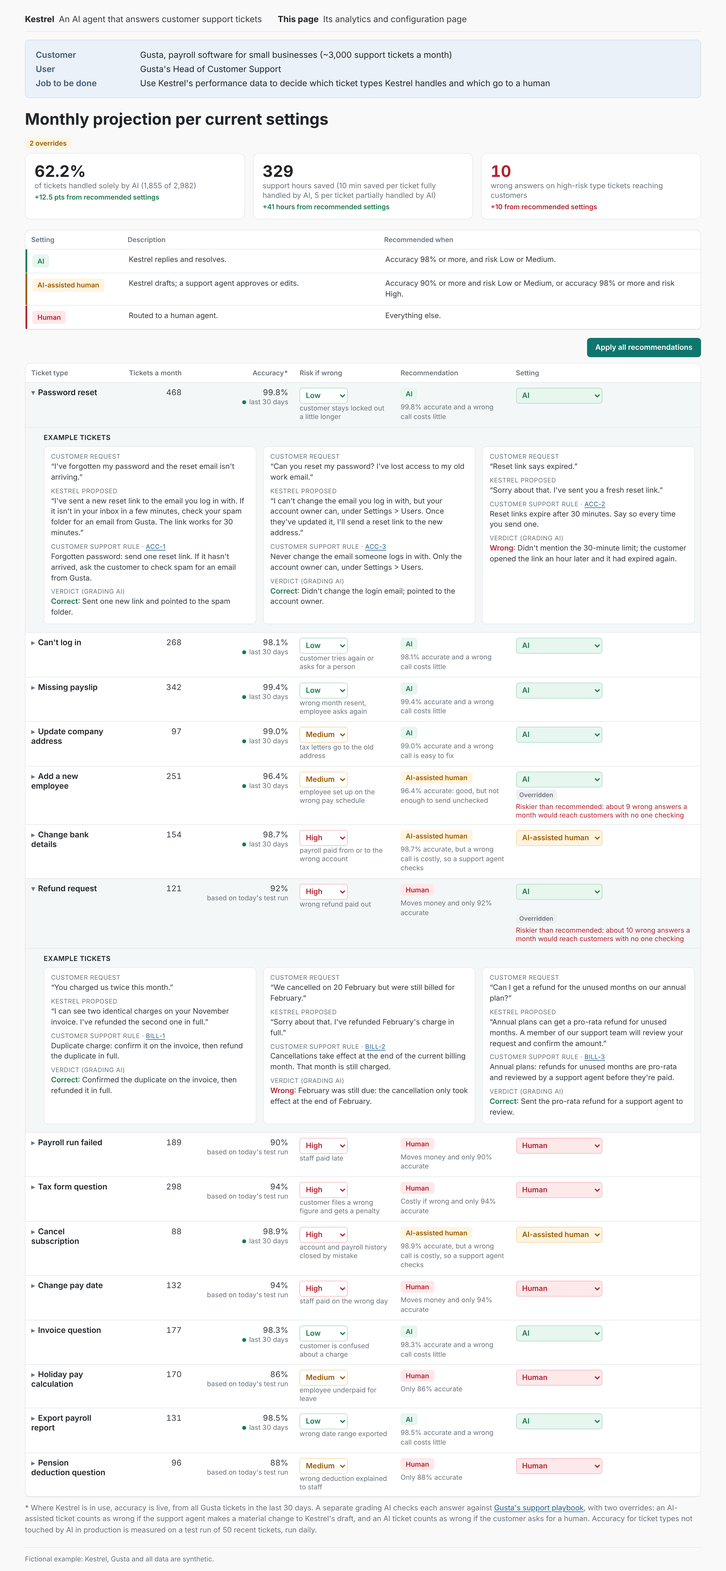
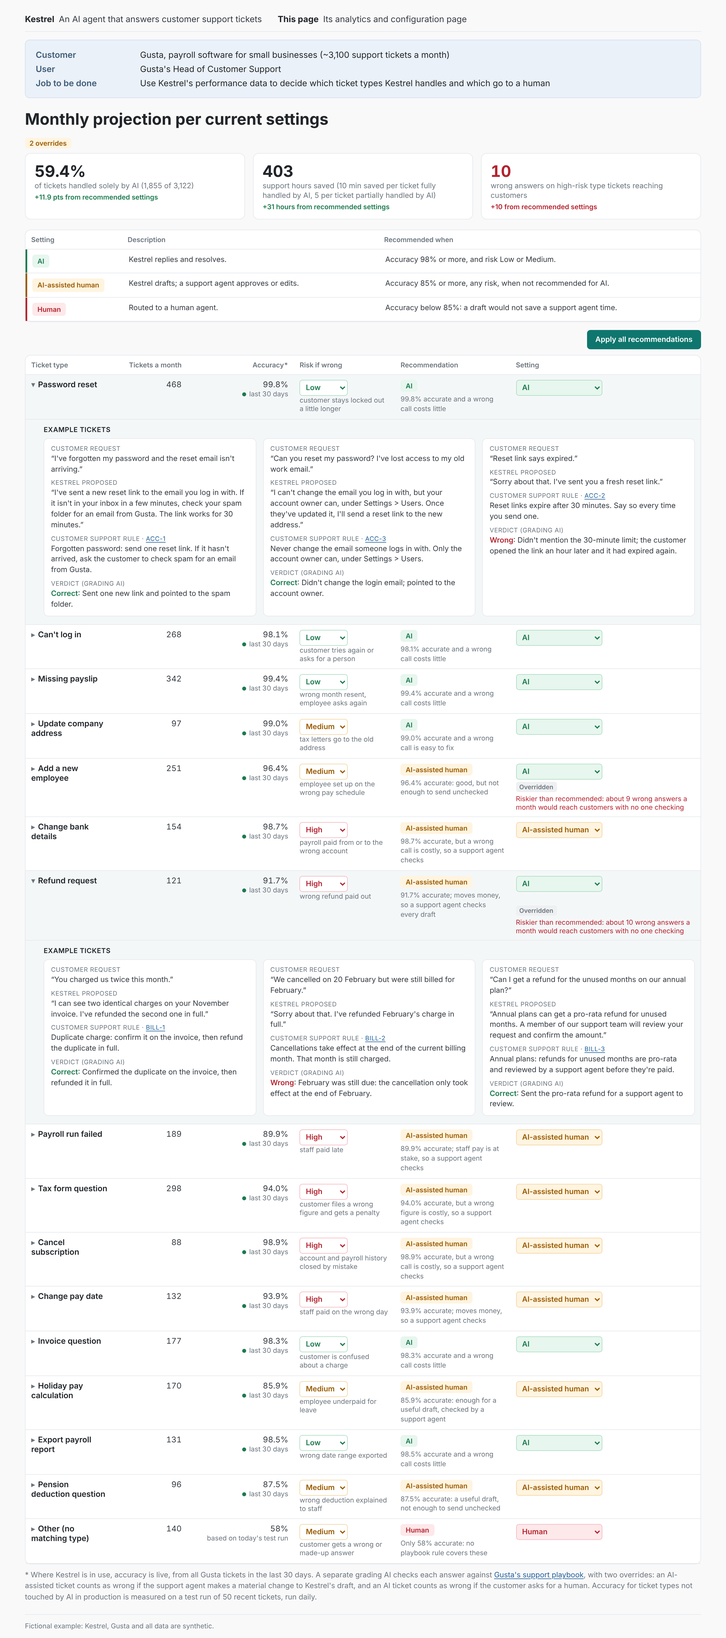
More AI-assisted human, Human only for Other
- Rule: AI-assisted human at 85%+ accuracy at any risk (a support agent checks every draft); Human below 85%
- The 6 former Human types are AI-assisted human, measured on their last 30 days of tickets
- New Other type (tickets that match no known type): 58% on the daily test, the only Human type; examples graded against GEN-5
- Tests, checks, screenshots, README and the example's run notes updated to the new numbers

Claude-Session: https://claude.ai/code/session_016JoguXTxkWcj5knaYbAtMZ

Changed region(s): [[0.0312, 0.0312, 0.9688, 0.9989], [0.6562, 0.2185, 0.9375, 0.3434], [0.2188, 0.2185, 0.25, 0.2497]]

diff --git a/examples/kestrel/build/check_mvp.js b/examples/kestrel/build/check_mvp.js
@@ -14,14 +14,14 @@ const srv = http.createServer((q, r) => { const f = path.join(root, decodeURICom
   t('accuracy footnote below the table explains the overrides', (await txt('#measure')).startsWith('* Where Kestrel is in use, accuracy is live') && (await txt('#thAcc')) === 'Accuracy*' && (await txt('#measure')).includes('makes a material change') && (await p.evaluate(() => !!(document.querySelector('#types').compareDocumentPosition(document.querySelector('#measure')) & Node.DOCUMENT_POSITION_FOLLOWING))) && (await txt('#measure')).includes('asks for a human') && (await txt('#measure')).includes('not touched by AI in production is measured on a test run of 50 recent tickets, run daily'));
   t('headline', (await txt('#headline')) === 'Monthly projection per current settings');
   t('default: 1 override (Add a new employee set to AI, above recommended)', (await txt('#state')) === '1 override' && (await p.inputValue('select[data-i="4"]')) === 'resolve' && (await txt('tr.row[data-i="4"]')).includes('Riskier than recommended: about 9 wrong answers a month would reach customers with no one checking'));
-  t('default projection: 58.1%, 309 hours, 0', (await txt('#sumShare')) === '58.1%' && (await txt('#sumHours')) === '309' && (await txt('#sumHigh')) === '0');
+  t('default projection: 55.5%, 393 hours, 0', (await txt('#sumShare')) === '55.5%' && (await txt('#sumHours')) === '393' && (await txt('#sumHigh')) === '0');
   t('static mode: no accuracy change on load', (await p.$$('td.acc-up, td.acc-down')).length === 0);
-  t('a blinking live dot on each type measured on live tickets (9), 1-second blink', (await p.$$('td.acc .live-dot')).length === 9 && (await p.evaluate(() => { document.body.classList.remove('static'); const cs = getComputedStyle(document.querySelector('.live-dot')); const ok = cs.animationName === 'blink' && cs.animationDuration === '1s'; document.body.classList.add('static'); return ok; })));
-  t('test-run types are labelled "based on today\'s test run" (6)', (await p.$$eval('td.acc .sub', es => es.filter(e => e.textContent === "based on today's test run").length)) === 6);
+  t('a blinking live dot on each type measured on live tickets (15), 1-second blink', (await p.$$('td.acc .live-dot')).length === 15 && (await p.evaluate(() => { document.body.classList.remove('static'); const cs = getComputedStyle(document.querySelector('.live-dot')); const ok = cs.animationName === 'blink' && cs.animationDuration === '1s'; document.body.classList.add('static'); return ok; })));
+  t('the one test-run type is labelled "based on today\'s test run"', (await p.$$eval('td.acc .sub', es => es.filter(e => e.textContent === "based on today's test run").length)) === 1);
   const chips = () => p.$$eval('tr.row td:nth-child(5) .chip', es => es.map(e => e.textContent).join('|')), chips0 = await chips();
   t('one tick: exactly one accuracy cell changes, with its arrow', (await p.evaluate(() => tick())) && (await p.$$('td.acc-up, td.acc-down')).length === 1 && /[▲▼] [+−]\d/.test(await txt('td.acc-up, td.acc-down')));
   const picks = await p.evaluate(() => { const c = {}; for (let k = 0; k < 400; k++) { const before = liveCorrect.slice(); if (tick()) { const i = liveCorrect.findIndex((v, j) => v !== before[j]); c[i] = (c[i] || 0) + 1; } } return c; });
-  t('ticks favour rows higher in the table, and only live types move', (picks[0] || 0) > (picks[11] || 0) && (picks[0] || 0) > (picks[13] || 0) && [6, 7, 8, 10, 12, 14].every(i => !picks[i]));
+  t('ticks favour rows higher in the table, and only live types move', (picks[0] || 0) > (picks[11] || 0) && (picks[0] || 0) > (picks[13] || 0) && !picks[15]);
   t('ticks stay within 2 tickets of the 30-day figure and never change a recommendation', (await chips()) === chips0 && (await p.evaluate(() => liveCorrect.every((c, i) => Math.abs(c - D.types[i].correct) <= 2 && c <= D.types[i].tested))));
   t('after ticks, each recommendation reason quotes the same accuracy as its cell', await p.$$eval('tr.row', rs => rs.every(r => { const c = r.querySelector('td.acc').cloneNode(true); c.querySelectorAll('.accd, .sub').forEach(x => x.remove());
     const rs2 = r.querySelector('.reason'); return !rs2 || rs2.textContent.includes(c.textContent.trim()); })));
@@ -30,10 +30,10 @@ const srv = http.createServer((q, r) => { const f = path.join(root, decodeURICom
   t('label says solely by AI', (await txt('#summary')).includes('of tickets handled solely by AI'));
   await p.click('#applyAll');
   t('no badge with recommended settings', !(await p.$('#state')));
-  t('recommended settings: 49.7%, 288 hours, 0 high-risk wrong answers', (await txt('#sumShare')) === '49.7%' && (await txt('#sumHours')) === '288' && (await txt('#sumHigh')) === '0');
+  t('recommended settings: 47.5%, 372 hours, 0 high-risk wrong answers', (await txt('#sumShare')) === '47.5%' && (await txt('#sumHours')) === '372' && (await txt('#sumHigh')) === '0');
   t('rules before the table', await p.evaluate(() => !!(document.querySelector('#rules').compareDocumentPosition(document.querySelector('#types')) & Node.DOCUMENT_POSITION_FOLLOWING)));
   await p.waitForTimeout(2400);
-  t('15 rows, Password reset expanded by default', (await p.$$('tr.row')).length === 15 && (await p.$$('tr.detail')).length === 1 && (await txt('tr.row.open')).includes('Password reset'));
+  t('16 rows, Password reset expanded by default', (await p.$$('tr.row')).length === 16 && (await p.$$('tr.detail')).length === 1 && (await txt('tr.row.open')).includes('Password reset'));
   const det = await txt('tr.detail');
   t('each expanded row has an Example tickets heading', det.includes('Example tickets'));
   t('examples use the four labels', ['Customer request', 'Kestrel proposed', 'Customer support rule', 'Verdict (grading AI)'].every(l => det.includes(l)));
@@ -54,7 +54,7 @@ const srv = http.createServer((q, r) => { const f = path.join(root, decodeURICom
   const row = await txt('tr.row[data-i="6"]');
   t('raising AI share flashes green, high-risk wrong answers flash red', (await p.getAttribute('#sumShare >> xpath=..', 'class')).includes('flash-good') && (await p.getAttribute('#sumHigh >> xpath=..', 'class')).includes('flash-bad'));
   t('override shows Overridden and the warning', row.includes('Overridden') && row.includes('Riskier than recommended: about 10 wrong answers a month would reach customers with no one checking'));
-  t('summary updates: 53.8%, 10 high-risk wrong answers', (await txt('#sumShare')) === '53.8%' && (await txt('#sumHigh')) === '10');
+  t('summary updates: 51.4%, 10 high-risk wrong answers', (await txt('#sumShare')) === '51.4%' && (await txt('#sumHigh')) === '10');
   t('dashboard updates: 1 override, 10 on High-risk types, deltas shown', (await txt('#state')) === '1 override' && (await txt('#sumHigh')) === '10' && (await txt('#summary')).includes('+10 from recommended settings'));
   await p.selectOption('select[data-i="0"]', 'human');
   const row0 = await txt('tr.row[data-i="0"]');
@@ -69,11 +69,11 @@ const srv = http.createServer((q, r) => { const f = path.join(root, decodeURICom
   await p.selectOption('select[data-i="1"]', 'human'); await p.selectOption('select[data-risk="1"]', 'High');
   t('overridden setting stays when risk changes', (await p.inputValue('select[data-i="1"]')) === 'human');
   await p.selectOption('select[data-risk="0"]', 'Low'); await p.selectOption('select[data-risk="1"]', 'Low'); await p.click('#applyAll');
-  t('back to the original: 49.7%', (await txt('#sumShare')) === '49.7%' && !(await txt('#types')).includes('Adjusted by user'));
+  t('back to the original: 47.5%', (await txt('#sumShare')) === '47.5%' && !(await txt('#types')).includes('Adjusted by user'));
   t('confirmation after Apply all', (await txt('#toast')).includes('All recommendations applied'));
-  t('Apply all recommendations resets everything', (await txt('#sumShare')) === '49.7%' && !(await txt('#types')).includes('Overridden'));
+  t('Apply all recommendations resets everything', (await txt('#sumShare')) === '47.5%' && !(await txt('#types')).includes('Overridden'));
   t('rules are one table with 3 coloured rows', (await p.$$('#rules tr.r-resolve, #rules tr.r-draft, #rules tr.r-human')).length === 3 && (await p.$$('#rules .chip')).length === 3);
-  t('setting dropdown is coloured by its value', (await p.getAttribute('select[data-i="0"]', 'class')) === 's-resolve' && (await p.getAttribute('select[data-i="6"]', 'class')) === 's-human');
+  t('setting dropdown is coloured by its value', (await p.getAttribute('select[data-i="0"]', 'class')) === 's-resolve' && (await p.getAttribute('select[data-i="6"]', 'class')) === 's-draft' && (await p.getAttribute('select[data-i="15"]', 'class')) === 's-human');
   const body = await txt('body');
   t('no em dashes on the page', !body.includes('—'));
   t('never "agent" on its own', !/(?<!AI |support |human )\bagents?\b/i.test(body.replace(/the agent itself/g, '')));

diff --git a/examples/kestrel/build/test_mvp.js b/examples/kestrel/build/test_mvp.js
@@ -5,25 +5,27 @@ const m = { exports: {} }; new Function('module', html.split('<script id="calc">
 const D = JSON.parse(fs.readFileSync(path.join(__dirname, '../data/ticket_types.json'))); const n = 0; const PB = fs.readFileSync(path.join(__dirname, '../data/support_playbook.md'), 'utf8');
 let fail = 0; const t = (name, ok, got) => { if (!ok) fail++; if (!ok || got !== undefined) console.log(`${ok ? 'PASS' : 'FAIL'} ${name}${got !== undefined ? ': ' + got : ''}`); };
 // the table from the brief: name, tickets, correct, risk, recommendation
-const BRIEF = [['Password reset',468,468,467,'Low','resolve'],["Can't log in",268,268,263,'Low','resolve'],['Missing payslip',342,342,340,'Low','resolve'],['Update company address',97,97,96,'Medium','resolve'],['Add a new employee',251,251,242,'Medium','draft'],['Change bank details',154,154,152,'High','draft'],['Refund request',121,50,46,'High','human'],['Payroll run failed',189,50,45,'High','human'],['Tax form question',298,50,47,'High','human'],['Cancel subscription',88,88,87,'High','draft'],['Change pay date',132,50,47,'High','human'],['Invoice question',177,177,174,'Low','resolve'],['Holiday pay calculation',170,50,43,'Medium','human'],['Export payroll report',131,131,129,'Low','resolve'],['Pension deduction question',96,50,44,'Medium','human']];
+const BRIEF = [['Password reset',468,468,467,'Low','resolve'],["Can't log in",268,268,263,'Low','resolve'],['Missing payslip',342,342,340,'Low','resolve'],['Update company address',97,97,96,'Medium','resolve'],['Add a new employee',251,251,242,'Medium','draft'],['Change bank details',154,154,152,'High','draft'],['Refund request',121,121,111,'High','draft'],['Payroll run failed',189,189,170,'High','draft'],['Tax form question',298,298,280,'High','draft'],['Cancel subscription',88,88,87,'High','draft'],['Change pay date',132,132,124,'High','draft'],['Invoice question',177,177,174,'Low','resolve'],['Holiday pay calculation',170,170,146,'Medium','draft'],['Export payroll report',131,131,129,'Low','resolve'],['Pension deduction question',96,96,84,'Medium','draft'],['Other (no matching type)',140,50,29,'Medium','human']];
 BRIEF.forEach(([name, tk, tested, k, risk, rec], i) => { const x = D.types[i];
-  t(`${name}: data matches; tested on all 30-day tickets if Kestrel is used, else 50`, x.name === name && x.tickets === tk && x.tested === (rec === 'human' ? 50 : tk) && x.tested === tested && x.correct === k && x.risk === risk);
+  t(`${name}: data matches; tested on all 30-day tickets if Kestrel is used, else 50 in the daily test`, x.name === name && x.tickets === tk && x.tested === (rec === 'human' ? 50 : tk) && x.tested === tested && x.correct === k && x.risk === risk);
   t(`${name}: reason quotes the live accuracy`, x.reason.includes((k / tested * 100).toFixed(tested === 50 ? 0 : 1) + '%'));
   t(`${name}: rules give the brief's recommendation`, C.recommend(x, n) === rec);
   t(`${name}: 3 examples with message, proposal, rule and verdict`, x.examples.length === 3 && x.examples.every(e => e.message && e.proposed && e.rule && e.verdict_reason));
   t(`${name}: each example quotes its rule word for word from the support playbook`, x.examples.every(e => PB.includes(`- **${e.rule_id}** ${e.rule}\n`)));
   if (k < tested) t(`${name}: below 100% so at least one Wrong example`, x.examples.some(e => !e.correct)); });
 const rec = D.types.map(x => C.recommend(x, n)), s = C.summary(D, rec);
-t('tickets a month', s.all === 2982, s.all);
-t('handled by AI: 49.7%', (s.aiShare * 100).toFixed(1) === '49.7', (s.aiShare * 100).toFixed(2));
-t('hours saved: 1,483 × 10 min + 493 × 5 min = 288', Math.round(s.hours) === 288 && s.ai === 1483 && s.assisted === 493, s.hours.toFixed(1));
+t('tickets a month', s.all === 3122, s.all);
+t('handled by AI: 47.5%', (s.aiShare * 100).toFixed(1) === '47.5', (s.aiShare * 100).toFixed(2));
+t('hours saved: 1,483 × 10 min + 1,499 × 5 min = 372', Math.round(s.hours) === 372 && s.ai === 1483 && s.assisted === 1499, s.hours.toFixed(1));
 t('wrong answers on AI-handled types: 1 + 5 + 2 + 1 + 3 + 2 = 14', Math.abs(s.wrong - 14) < 1e-9, s.wrong.toFixed(2));
 // overriding Refund request to AI: more autonomy, so a warning, and the numbers move
 const o = rec.slice(); o[6] = 'resolve'; const so = C.summary(D, o);
 t('override Refund request to AI is above recommended', C.aboveRecommended(D.types[6], n, 'resolve'));
 t('override adds 121 AI tickets', so.ai === 1604, so.ai);
 t('recommended settings: 0 wrong answers on High-risk types', s.wrongHigh === 0, s.wrongHigh);
-t('Refund request on AI: wrong answers on High-risk types = 121 × 8% = 9.7', Math.abs(so.wrongHigh - 121 * 4 / 50) < 1e-9, so.wrongHigh.toFixed(2));
+t('Refund request on AI: wrong answers on High-risk types = 121 - 111 = 10', Math.abs(so.wrongHigh - 10) < 1e-9, so.wrongHigh.toFixed(2));
+t('only one type is recommended Human, and most of the rest are AI-assisted human or AI', rec.filter(r => r === 'human').length === 1 && rec[15] === 'human' && rec.filter(r => r === 'draft').length === 9 && rec.filter(r => r === 'resolve').length === 6);
+t('85% is the line for an AI-assisted draft at any risk', C.recommend({correct: 85, tested: 100, risk: 'High'}, n) === 'draft' && C.recommend({correct: 84, tested: 100, risk: 'Low'}, n) === 'human');
 t('lowering autonomy is not a warning', !C.aboveRecommended(D.types[0], n, 'human'));
 const text = JSON.stringify(D) + html;
 t('no em dashes', !text.includes('—'));

diff --git a/examples/kestrel/build/mvp.html b/examples/kestrel/build/mvp.html
@@ -94,7 +94,7 @@ function accuracy(t){ return t.correct / t.tested; }
 function recommend(t, n){
   const a = accuracy(t, n), high = t.risk === 'High';
   if (a >= 0.98 && !high) return 'resolve';
-  if ((a >= 0.90 && !high) || (a >= 0.98 && high)) return 'draft';
+  if (a >= 0.85) return 'draft';  // a support agent checks every draft, so risk only matters for sending unchecked
   return 'human';
 }
 // settings: one mode per type (defaults to the recommendation)
@@ -131,8 +131,8 @@ function staticParts(){
   document.getElementById('rules').innerHTML = `<table>
     <tr><th>Setting</th><th>Description</th><th>Recommended when</th></tr>
     <tr class="r-resolve"><td><span class="chip c-resolve">AI</span></td><td>${K} replies and resolves.</td><td>Accuracy 98% or more, and risk Low or Medium.</td></tr>
-    <tr class="r-draft"><td><span class="chip c-draft">AI-assisted human</span></td><td>${K} drafts; a support agent approves or edits.</td><td>Accuracy 90% or more and risk Low or Medium, or accuracy 98% or more and risk High.</td></tr>
-    <tr class="r-human"><td><span class="chip c-human">Human</span></td><td>Routed to a human agent.</td><td>Everything else.</td></tr></table>`;
+    <tr class="r-draft"><td><span class="chip c-draft">AI-assisted human</span></td><td>${K} drafts; a support agent approves or edits.</td><td>Accuracy 85% or more, any risk, when not recommended for AI.</td></tr>
+    <tr class="r-human"><td><span class="chip c-human">Human</span></td><td>Routed to a human agent.</td><td>Accuracy below 85%: a draft would not save a support agent time.</td></tr></table>`;
   document.getElementById('measure').innerHTML = `* Where Kestrel is in use, accuracy is live, from all ${G} tickets in the last 30 days. A separate grading AI checks each answer against <a href="playbook.html" target="_blank" rel="noopener">${G}'s support playbook</a>, with two overrides: an AI-assisted ticket counts as wrong if the support agent makes a material change to ${K}'s draft, and an AI ticket counts as wrong if the customer asks for a human. Accuracy for ticket types not touched by AI in production is measured on a test run of 50 recent tickets, run daily.`;
   document.getElementById('footer').textContent = `Fictional example: ${K}, ${G} and all data are synthetic.`;
 }

diff --git a/examples/kestrel/notebooks/make_data.py b/examples/kestrel/notebooks/make_data.py
@@ -153,8 +153,12 @@ T = [
    ('Why has pension been taken from a new starter?', "New starters join your workplace pension automatically after a 3-month waiting period. Sam's ended in October, so deductions started this month.", 'PEN-1', True, "Explained the waiting period using Sam's dates."),
    ('An employee wants to opt out of the pension.', "Record the opt-out on their profile under Pension. As they're within a month of enrolment, their deductions will be refunded in the next run.", 'PEN-2', True, 'Recorded the opt-out and the refund.'),
    ('Pension amount looks wrong this month.', "This month's pension deduction is the same as last month's, so it looks right.", 'PEN-3', False, "Didn't check for salary changes: a pay rise this month hadn't reached the pension, so the deduction was too low.")]),
+ ("Other (no matching type)", 140, 29, "Medium", "Medium: customer gets a wrong or made-up answer", False, [
+   ("Does Gusta connect to our rota app?", "Yes, Gusta connects with most rota apps under Settings > Integrations.", "GEN-5", False, "No rule covers integrations; it guessed instead of handing over to a support agent."),
+   ("We're being audited next week. Can someone talk us through what data you hold?", "I'll pass you to a member of our support team, who can take you through what we hold for your audit.", "GEN-5", True, "No rule covers audits, so it handed over to a support agent."),
+   ("Your last update deleted our custom report.", "Updates don't affect custom reports. You'll find yours under Reports > Saved.", "GEN-5", False, "No rule covers this; it denied a possible bug instead of handing over to a support agent.")]),
 ]
-# live accuracy: where Kestrel is used, every ticket from the last 30 days (= tickets a month); where it isn't (Human), a test on 50 recent tickets
+# accuracy: where Kestrel is used (AI or AI-assisted human), every ticket from the last 30 days (= tickets a month); where it isn't (Human), a daily test on 50 recent tickets
 LIVE = {
  'Password reset': (468, 467),
  "Can't log in": (268, 263),
@@ -162,15 +166,16 @@ LIVE = {
  'Update company address': (97, 96),
  'Add a new employee': (251, 242),
  'Change bank details': (154, 152),
- 'Refund request': (50, 46),
- 'Payroll run failed': (50, 45),
- 'Tax form question': (50, 47),
+ 'Refund request': (121, 111),
+ 'Payroll run failed': (189, 170),
+ 'Tax form question': (298, 280),
  'Cancel subscription': (88, 87),
- 'Change pay date': (50, 47),
+ 'Change pay date': (132, 124),
  'Invoice question': (177, 174),
- 'Holiday pay calculation': (50, 43),
+ 'Holiday pay calculation': (170, 146),
  'Export payroll report': (131, 129),
- 'Pension deduction question': (50, 44),
+ 'Pension deduction question': (96, 84),
+ 'Other (no matching type)': (50, 29),
 }
 REASON = {
  "Password reset": "{p} accurate and a wrong call costs little",
@@ -179,15 +184,16 @@ REASON = {
  "Update company address": "{p} accurate and a wrong call is easy to fix",
  "Add a new employee": "{p} accurate: good, but not enough to send unchecked",
  "Change bank details": "{p} accurate, but a wrong call is costly, so a support agent checks",
- "Refund request": "Moves money and only {p} accurate",
- "Payroll run failed": "Moves money and only {p} accurate",
- "Tax form question": "Costly if wrong and only {p} accurate",
+ "Refund request": "{p} accurate; moves money, so a support agent checks every draft",
+ "Payroll run failed": "{p} accurate; staff pay is at stake, so a support agent checks",
+ "Tax form question": "{p} accurate, but a wrong figure is costly, so a support agent checks",
  "Cancel subscription": "{p} accurate, but a wrong call is costly, so a support agent checks",
- "Change pay date": "Moves money and only {p} accurate",
+ "Change pay date": "{p} accurate; moves money, so a support agent checks",
  "Invoice question": "{p} accurate and a wrong call costs little",
- "Holiday pay calculation": "Only {p} accurate",
+ "Holiday pay calculation": "{p} accurate: enough for a useful draft, checked by a support agent",
  "Export payroll report": "{p} accurate and a wrong call costs little",
- "Pension deduction question": "Only {p} accurate",
+ "Pension deduction question": "{p} accurate: a useful draft, not enough to send unchecked",
+ "Other (no matching type)": "Only {p} accurate: no playbook rule covers these",
 }
 pct = lambda n: (f"{LIVE[n][1] / LIVE[n][0] * 100:.0f}%" if LIVE[n][0] == 50 else f"{LIVE[n][1] / LIVE[n][0] * 100:.1f}%")
 out = {"label": "FICTIONAL and SYNTHETIC: Kestrel example, not real data",

diff --git a/README.md b/README.md
@@ -17,9 +17,9 @@ Kestrel's analytics and configuration page, for Gusta's Head of Customer Support
 
 | Part | What it shows |
 |---|---|
-| Monthly projection per current settings | **58.1%** of tickets handled solely by AI (1,734 of 2,982) · **309** support hours saved (10 minutes per ticket fully handled by AI, 5 per ticket partially handled by AI) · **0** wrong answers on high-risk type tickets reaching customers. Recalculates as settings change; each change flashes green or red and shows the difference from the recommended settings |
-| Settings | **AI**: Kestrel replies and resolves (recommended at 98%+ accuracy and risk Low or Medium) · **AI-assisted human**: Kestrel drafts, a support agent approves or edits (90%+ and risk Low or Medium, or 98%+ and risk High) · **Human**: routed to a human agent (everything else) |
-| The table | 15 ticket types: tickets a month, accuracy (live where Kestrel is in use: a dot blinks every second, and every 10 seconds one ticket type updates, rows higher in the table more often, shown in green or red), risk if wrong, Kestrel's recommendation with its reason, and the setting Gusta controls |
+| Monthly projection per current settings | **55.5%** of tickets handled solely by AI (1,734 of 3,122) · **393** support hours saved (10 minutes per ticket fully handled by AI, 5 per ticket partially handled by AI) · **0** wrong answers on high-risk type tickets reaching customers. Recalculates as settings change; each change flashes green or red and shows the difference from the recommended settings |
+| Settings | **AI**: Kestrel replies and resolves (recommended at 98%+ accuracy and risk Low or Medium) · **AI-assisted human**: Kestrel drafts, a support agent approves or edits (85%+ at any risk, since a support agent checks every draft) · **Human**: routed to a human agent (below 85%, where a draft wouldn't save time; today only Other, the tickets that match no type) |
+| The table | 16 ticket types: tickets a month, accuracy (live where Kestrel is in use: a dot blinks every second, and every 10 seconds one ticket type updates, rows higher in the table more often, shown in green or red), risk if wrong, Kestrel's recommendation with its reason, and the setting Gusta controls |
 | Adjustments | Risk and setting are both editable. Changing a risk shows "Adjusted by user" and re-runs the recommendation; changing a setting shows "Overridden" and warns when it gives Kestrel more autonomy than recommended. A confirmation appears after each change. The page opens with one override (Add a new employee moved up to AI); "Apply all recommendations" resets it |
 | Example tickets | 3 under each ticket type: customer request, Kestrel's reply, the rule it was graded against (quoted by ID from Gusta's fictional [support playbook](examples/kestrel/data/support_playbook.md)), and the grading AI's verdict |
 

diff --git a/examples/kestrel/RUN.md b/examples/kestrel/RUN.md
@@ -4,7 +4,7 @@
 
 **The question:** which ticket types can the AI support agent resolve on its own?
 **Scope:** support tickets only, in in-app chat.
-**Data:** `data/ticket_types.json`: 15 ticket types, monthly volume, results on 50 test tickets each, cost of a wrong call, and 3 example tickets per type (message, Kestrel's proposal, the customer support rule and the grading AI's verdict). Made by `notebooks/make_data.py`.
+**Data:** `data/ticket_types.json`: 16 ticket types (including Other, for tickets that match no type), monthly volume, accuracy (every ticket in the last 30 days where Kestrel is used, a daily 50-ticket test where it isn't), cost of a wrong call, and 3 example tickets per type (message, Kestrel's proposal, the customer support rule and the grading AI's verdict). Made by `notebooks/make_data.py`.
 
 | Step | Skill | Output |
 |---|---|---|
@@ -22,8 +22,8 @@
 | Decision | Why | What I turned down |
 |---|---|---|
 | Decide per ticket type, not one setting for all | Accuracy runs from 86% to 100% across types; one setting is wrong for most of them | A single confidence threshold |
-| Three outcomes, not two | "AI-assisted human" keeps a support agent on the 4 types that are good but not safe to send unchecked | Only "on" or "off" |
-| Any High-risk type needs 98%+ even for AI-assisted human | A wrong refund or a missed payroll costs the customer real money | Treating money like any other answer |
+| Three outcomes, not two | "AI-assisted human" keeps a support agent on the 9 types that are good but not safe to send unchecked | Only "on" or "off" |
+| AI-assisted human from 85% at any risk; Human only below that | A support agent checks every draft, so risk decides only what can go out unchecked; below 85% a draft costs more time to fix than it saves | Sending High-risk types to a human by default, which wastes the drafts that are right 9 times in 10 |
 | Count wrong answers that reach customers, not just accuracy | Leadership asks "what could go wrong"; 9 a month, all on low or medium-cost tickets, is an answer they can sign | Showing accuracy alone |
 | Recommend, but let her decide: a setting per row, with a warning above the recommendation | She owns the call; the dashboard shows what an override costs in wrong answers | Locking the recommendation |
 | One page: rules, a table, three numbers, examples | The decision is the table; each example shows the customer support rule and the grading AI's verdict, so anyone can check Kestrel | A dashboard with filters and charts |

diff --git a/examples/kestrel/05-solution-concept.md b/examples/kestrel/05-solution-concept.md
@@ -2,12 +2,12 @@
 
 > **FICTIONAL EXAMPLE.** Kestrel, Gusta, the use case and all data are synthetic. Any resemblance to a real company is unintended. In a real run these pages live in Notion; here they are Markdown so the workflow can be read end to end.
 
-> **Recommendation: a one-page analytics view in Kestrel.** Each ticket type gets one of three outcomes from a rule anyone can read: AI, AI-assisted human, or Human. For Gusta: **49.7% of tickets handled by AI, 288 hours saved a month, 9 wrong answers a month reaching customers**, all on Low-cost tickets.
+> **Recommendation: a one-page analytics view in Kestrel.** Each ticket type gets one of three outcomes from a rule anyone can read: AI, AI-assisted human, or Human. For Gusta: **47.5% of tickets handled by AI, 372 hours saved a month, 14 wrong answers a month reaching customers**, none on High-risk tickets. Only Other (tickets that match no type) goes to a human.
 
 ## The rule
 - **AI:** accuracy 98% or more, and risk Low or Medium.
-- **AI-assisted human:** accuracy 90% or more and risk Low or Medium, or accuracy 98% or more and risk High.
-- **Human:** everything else.
+- **AI-assisted human:** accuracy 85% or more, any risk: a support agent checks every draft.
+- **Human:** accuracy below 85%, where a draft would not save a support agent time.
 
 ## What AI, code and people do
 - **AI:** Kestrel answers or drafts; a separate grading AI checks test answers against the playbook.
@@ -15,8 +15,8 @@
 - **People:** support agents approve drafts; the Head of Customer Support signs off the table.
 
 ## Success criteria
-- Wrong answers reaching customers stay under 10 a month, none on money types.
-- Test cases: 2,982 tickets; 1,483 handled by AI (49.7%); 288 hours; 8.9 wrong answers a month; overriding Refund request to AI adds 121 AI tickets and 9.7 wrong answers. See `build/test_mvp.js`.
+- Wrong answers reaching customers stay under 15 a month, none on High-risk types.
+- Test cases: 3,122 tickets; 1,483 handled by AI (47.5%); 372 hours; 14 wrong answers a month; overriding Refund request to AI adds 121 AI tickets and 10 wrong answers. See `build/test_mvp.js`.
 
 ## Assumptions (for the MVP review)
 - Is 50 test tickets per type, graded by a separate AI against the playbook, enough for the team to trust a type?

diff --git a/examples/kestrel/04-synthesis.md b/examples/kestrel/04-synthesis.md
@@ -5,7 +5,7 @@
 | Claim (from the notes) | In data terms | Result |
 |---|---|---|
 | "Logins and payslips are safe" | Accuracy on 50 test tickets | **Supported:** Password reset 100%, Missing payslip 100%, Can't log in 98% |
-| "Nothing that moves money without a support agent" | Money types and their accuracy | **Supported by the data:** of the 4 money types only Change bank details reaches 98%, and it still goes to a support agent (AI-assisted human) |
-| "It should save real hours" | AI tickets × 10 minutes + AI-assisted tickets × 5 minutes | **Supported:** 1,483 AI tickets (49.7%) and 493 AI-assisted, 288 hours a month |
+| "Nothing that moves money without a support agent" | Money types and their accuracy | **Supported by the data:** all 4 money types are AI-assisted human, so a support agent checks every answer before it goes out |
+| "It should save real hours" | AI tickets × 10 minutes + AI-assisted tickets × 5 minutes | **Supported:** 1,483 AI tickets (47.5%) and 1,499 AI-assisted, 372 hours a month |
 
 Code: [build/test_mvp.js](build/test_mvp.js).

diff --git a/examples/kestrel/01-data-review.md b/examples/kestrel/01-data-review.md
@@ -2,7 +2,7 @@
 
 > **FICTIONAL EXAMPLE.** Kestrel, Gusta, the use case and all data are synthetic. Any resemblance to a real company is unintended. In a real run these pages live in Notion; here they are Markdown so the workflow can be read end to end.
 
-**The data:** 15 ticket types, 2,982 tickets a month in in-app chat; for each, 50 past tickets answered by Kestrel and checked against Gusta's support playbook by a separate grading AI.
+**The data:** 16 ticket types (including Other, for tickets that match no type), 3,122 tickets a month in in-app chat; for each, 50 past tickets answered by Kestrel and checked against Gusta's support playbook by a separate grading AI.
 
 | # | Finding | Why it might matter (guess) |
 |---|---|---|

diff --git a/examples/kestrel/data/README.md b/examples/kestrel/data/README.md
@@ -2,5 +2,5 @@
 
 Synthetic data for the fictional Kestrel example (customer: Gusta), made by `../notebooks/make_data.py`. No real company, customer or ticket.
 
-- `ticket_types.json`: the 15 ticket types, their volumes, accuracy, risk and 3 example tickets each
+- `ticket_types.json`: the 16 ticket types (15 named, plus Other for tickets that match none), their volumes, accuracy, risk and 3 example tickets each
 - `support_playbook.md`: Gusta's support playbook. Every example quotes the rule it was graded against, by ID
